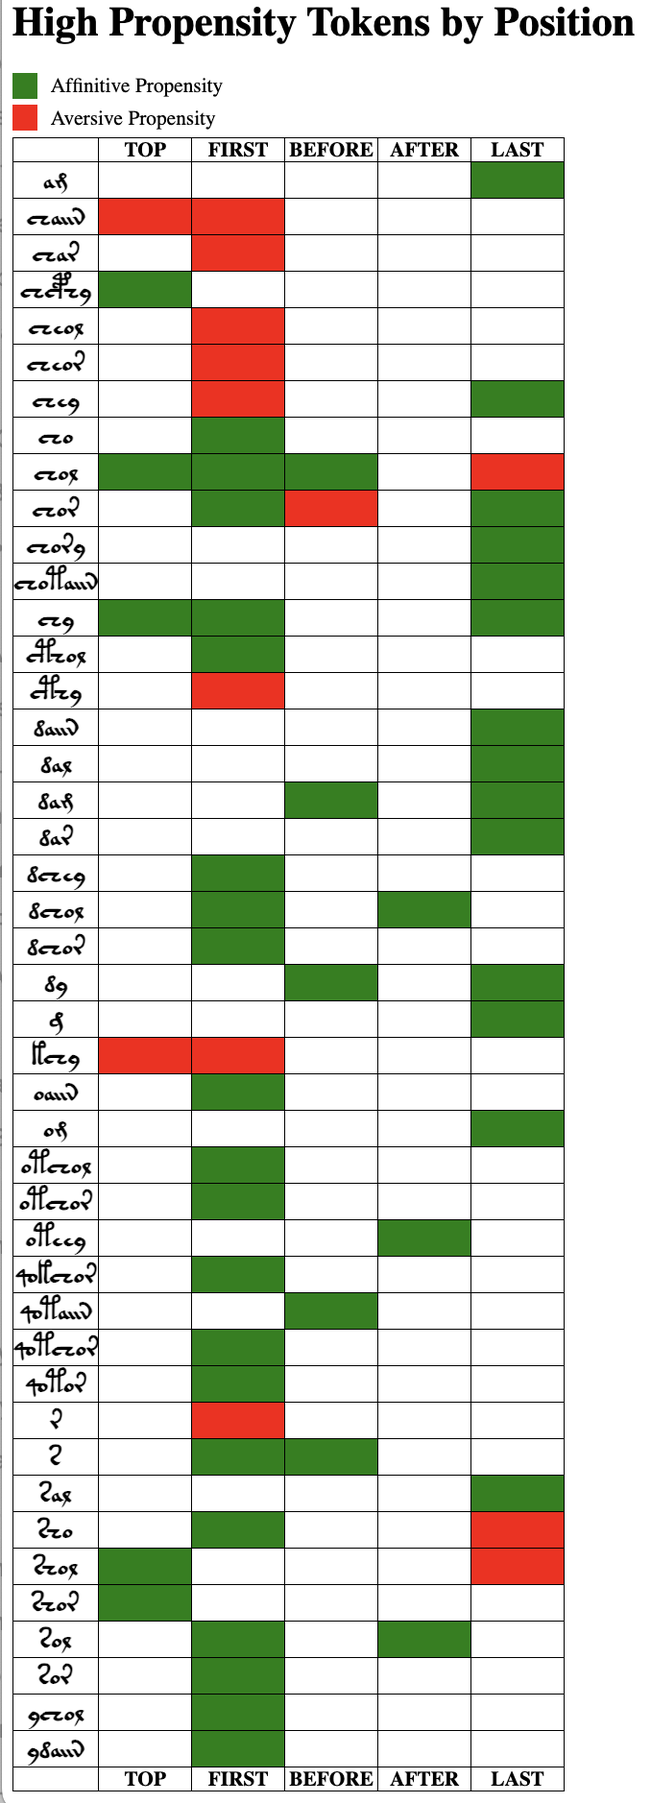
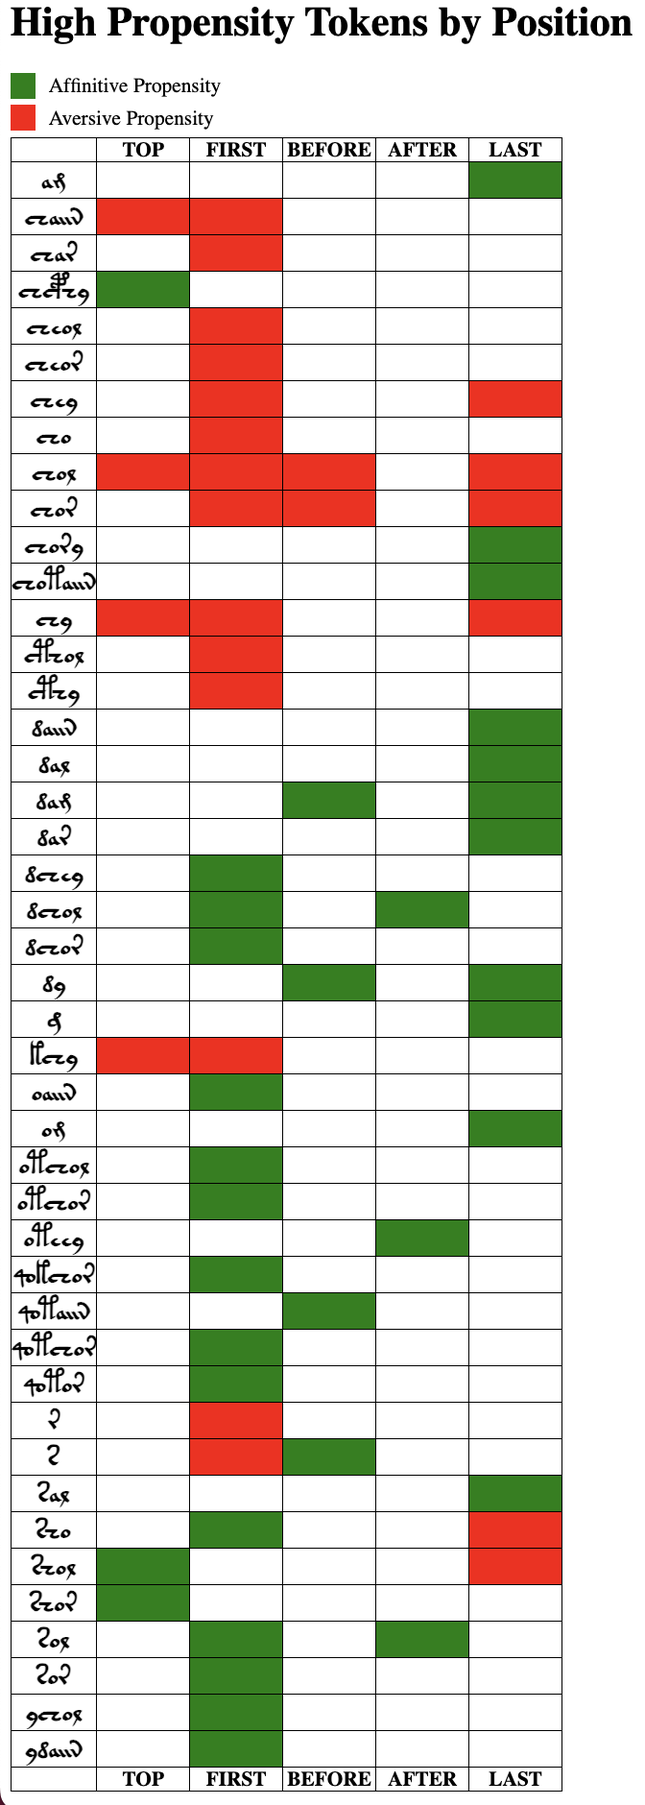
update

diff --git a/voynich_data/outputs/T_Propensity_Token.html b/voynich_data/outputs/T_Propensity_Token.html
@@ -31,6 +31,6 @@
             <div class='legend-label'>Aversive Propensity</div>
         </div>
     </div>
-   <table><tr><th></th><th>TOP</th><th>FIRST</th><th>BEFORE</th><th>AFTER</th><th>LAST</th></tr><tr><th><span style="font-family:'EVA Hand 1'; font-size:100%"  >am<br></span></th><td style="background-color:white">&nbsp;</td><td style="background-color:white">&nbsp;</td><td style="background-color:white">&nbsp;</td><td style="background-color:white">&nbsp;</td><td style="background-color:green">&nbsp;</td></tr><tr><th><span style="font-family:'EVA Hand 1'; font-size:100%"  >chaiin<br></span></th><td style="background-color:red">&nbsp;</td><td style="background-color:red">&nbsp;</td><td style="background-color:white">&nbsp;</td><td style="background-color:white">&nbsp;</td><td style="background-color:white">&nbsp;</td></tr><tr><th><span style="font-family:'EVA Hand 1'; font-size:100%"  >char<br></span></th><td style="background-color:white">&nbsp;</td><td style="background-color:red">&nbsp;</td><td style="background-color:white">&nbsp;</td><td style="background-color:white">&nbsp;</td><td style="background-color:white">&nbsp;</td></tr><tr><th><span style="font-family:'EVA Hand 1'; font-size:100%"  >chcphy<br></span></th><td style="background-color:green">&nbsp;</td><td style="background-color:white">&nbsp;</td><td style="background-color:white">&nbsp;</td><td style="background-color:white">&nbsp;</td><td style="background-color:white">&nbsp;</td></tr><tr><th><span style="font-family:'EVA Hand 1'; font-size:100%"  >cheol<br></span></th><td style="background-color:white">&nbsp;</td><td style="background-color:red">&nbsp;</td><td style="background-color:white">&nbsp;</td><td style="background-color:white">&nbsp;</td><td style="background-color:white">&nbsp;</td></tr><tr><th><span style="font-family:'EVA Hand 1'; font-size:100%"  >cheor<br></span></th><td style="background-color:white">&nbsp;</td><td style="background-color:red">&nbsp;</td><td style="background-color:white">&nbsp;</td><td style="background-color:white">&nbsp;</td><td style="background-color:white">&nbsp;</td></tr><tr><th><span style="font-family:'EVA Hand 1'; font-size:100%"  >chey<br></span></th><td style="background-color:white">&nbsp;</td><td style="background-color:red">&nbsp;</td><td style="background-color:white">&nbsp;</td><td style="background-color:white">&nbsp;</td><td style="background-color:green">&nbsp;</td></tr><tr><th><span style="font-family:'EVA Hand 1'; font-size:100%"  >cho<br></span></th><td style="background-color:white">&nbsp;</td><td style="background-color:green">&nbsp;</td><td style="background-color:white">&nbsp;</td><td style="background-color:white">&nbsp;</td><td style="background-color:white">&nbsp;</td></tr><tr><th><span style="font-family:'EVA Hand 1'; font-size:100%"  >chol<br></span></th><td style="background-color:green">&nbsp;</td><td style="background-color:green">&nbsp;</td><td style="background-color:green">&nbsp;</td><td style="background-color:white">&nbsp;</td><td style="background-color:red">&nbsp;</td></tr><tr><th><span style="font-family:'EVA Hand 1'; font-size:100%"  >chor<br></span></th><td style="background-color:white">&nbsp;</td><td style="background-color:green">&nbsp;</td><td style="background-color:red">&nbsp;</td><td style="background-color:white">&nbsp;</td><td style="background-color:green">&nbsp;</td></tr><tr><th><span style="font-family:'EVA Hand 1'; font-size:100%"  >chory<br></span></th><td style="background-color:white">&nbsp;</td><td style="background-color:white">&nbsp;</td><td style="background-color:white">&nbsp;</td><td style="background-color:white">&nbsp;</td><td style="background-color:green">&nbsp;</td></tr><tr><th><span style="font-family:'EVA Hand 1'; font-size:100%"  >chotaiin<br></span></th><td style="background-color:white">&nbsp;</td><td style="background-color:white">&nbsp;</td><td style="background-color:white">&nbsp;</td><td style="background-color:white">&nbsp;</td><td style="background-color:green">&nbsp;</td></tr><tr><th><span style="font-family:'EVA Hand 1'; font-size:100%"  >chy<br></span></th><td style="background-color:green">&nbsp;</td><td style="background-color:green">&nbsp;</td><td style="background-color:white">&nbsp;</td><td style="background-color:white">&nbsp;</td><td style="background-color:green">&nbsp;</td></tr><tr><th><span style="font-family:'EVA Hand 1'; font-size:100%"  >cthol<br></span></th><td style="background-color:white">&nbsp;</td><td style="background-color:green">&nbsp;</td><td style="background-color:white">&nbsp;</td><td style="background-color:white">&nbsp;</td><td style="background-color:white">&nbsp;</td></tr><tr><th><span style="font-family:'EVA Hand 1'; font-size:100%"  >cthy<br></span></th><td style="background-color:white">&nbsp;</td><td style="background-color:red">&nbsp;</td><td style="background-color:white">&nbsp;</td><td style="background-color:white">&nbsp;</td><td style="background-color:white">&nbsp;</td></tr><tr><th><span style="font-family:'EVA Hand 1'; font-size:100%"  >daiin<br></span></th><td style="background-color:white">&nbsp;</td><td style="background-color:white">&nbsp;</td><td style="background-color:white">&nbsp;</td><td style="background-color:white">&nbsp;</td><td style="background-color:green">&nbsp;</td></tr><tr><th><span style="font-family:'EVA Hand 1'; font-size:100%"  >dal<br></span></th><td style="background-color:white">&nbsp;</td><td style="background-color:white">&nbsp;</td><td style="background-color:white">&nbsp;</td><td style="background-color:white">&nbsp;</td><td style="background-color:green">&nbsp;</td></tr><tr><th><span style="font-family:'EVA Hand 1'; font-size:100%"  >dam<br></span></th><td style="background-color:white">&nbsp;</td><td style="background-color:white">&nbsp;</td><td style="background-color:green">&nbsp;</td><td style="background-color:white">&nbsp;</td><td style="background-color:green">&nbsp;</td></tr><tr><th><span style="font-family:'EVA Hand 1'; font-size:100%"  >dar<br></span></th><td style="background-color:white">&nbsp;</td><td style="background-color:white">&nbsp;</td><td style="background-color:white">&nbsp;</td><td style="background-color:white">&nbsp;</td><td style="background-color:green">&nbsp;</td></tr><tr><th><span style="font-family:'EVA Hand 1'; font-size:100%"  >dchey<br></span></th><td style="background-color:white">&nbsp;</td><td style="background-color:green">&nbsp;</td><td style="background-color:white">&nbsp;</td><td style="background-color:white">&nbsp;</td><td style="background-color:white">&nbsp;</td></tr><tr><th><span style="font-family:'EVA Hand 1'; font-size:100%"  >dchol<br></span></th><td style="background-color:white">&nbsp;</td><td style="background-color:green">&nbsp;</td><td style="background-color:white">&nbsp;</td><td style="background-color:green">&nbsp;</td><td style="background-color:white">&nbsp;</td></tr><tr><th><span style="font-family:'EVA Hand 1'; font-size:100%"  >dchor<br></span></th><td style="background-color:white">&nbsp;</td><td style="background-color:green">&nbsp;</td><td style="background-color:white">&nbsp;</td><td style="background-color:white">&nbsp;</td><td style="background-color:white">&nbsp;</td></tr><tr><th><span style="font-family:'EVA Hand 1'; font-size:100%"  >dy<br></span></th><td style="background-color:white">&nbsp;</td><td style="background-color:white">&nbsp;</td><td style="background-color:green">&nbsp;</td><td style="background-color:white">&nbsp;</td><td style="background-color:green">&nbsp;</td></tr><tr><th><span style="font-family:'EVA Hand 1'; font-size:100%"  >g<br></span></th><td style="background-color:white">&nbsp;</td><td style="background-color:white">&nbsp;</td><td style="background-color:white">&nbsp;</td><td style="background-color:white">&nbsp;</td><td style="background-color:green">&nbsp;</td></tr><tr><th><span style="font-family:'EVA Hand 1'; font-size:100%"  >kchy<br></span></th><td style="background-color:red">&nbsp;</td><td style="background-color:red">&nbsp;</td><td style="background-color:white">&nbsp;</td><td style="background-color:white">&nbsp;</td><td style="background-color:white">&nbsp;</td></tr><tr><th><span style="font-family:'EVA Hand 1'; font-size:100%"  >oaiin<br></span></th><td style="background-color:white">&nbsp;</td><td style="background-color:green">&nbsp;</td><td style="background-color:white">&nbsp;</td><td style="background-color:white">&nbsp;</td><td style="background-color:white">&nbsp;</td></tr><tr><th><span style="font-family:'EVA Hand 1'; font-size:100%"  >om<br></span></th><td style="background-color:white">&nbsp;</td><td style="background-color:white">&nbsp;</td><td style="background-color:white">&nbsp;</td><td style="background-color:white">&nbsp;</td><td style="background-color:green">&nbsp;</td></tr><tr><th><span style="font-family:'EVA Hand 1'; font-size:100%"  >otchol<br></span></th><td style="background-color:white">&nbsp;</td><td style="background-color:green">&nbsp;</td><td style="background-color:white">&nbsp;</td><td style="background-color:white">&nbsp;</td><td style="background-color:white">&nbsp;</td></tr><tr><th><span style="font-family:'EVA Hand 1'; font-size:100%"  >otchor<br></span></th><td style="background-color:white">&nbsp;</td><td style="background-color:green">&nbsp;</td><td style="background-color:white">&nbsp;</td><td style="background-color:white">&nbsp;</td><td style="background-color:white">&nbsp;</td></tr><tr><th><span style="font-family:'EVA Hand 1'; font-size:100%"  >oteey<br></span></th><td style="background-color:white">&nbsp;</td><td style="background-color:white">&nbsp;</td><td style="background-color:white">&nbsp;</td><td style="background-color:green">&nbsp;</td><td style="background-color:white">&nbsp;</td></tr><tr><th><span style="font-family:'EVA Hand 1'; font-size:100%"  >qokchor<br></span></th><td style="background-color:white">&nbsp;</td><td style="background-color:green">&nbsp;</td><td style="background-color:white">&nbsp;</td><td style="background-color:white">&nbsp;</td><td style="background-color:white">&nbsp;</td></tr><tr><th><span style="font-family:'EVA Hand 1'; font-size:100%"  >qotaiin<br></span></th><td style="background-color:white">&nbsp;</td><td style="background-color:white">&nbsp;</td><td style="background-color:green">&nbsp;</td><td style="background-color:white">&nbsp;</td><td style="background-color:white">&nbsp;</td></tr><tr><th><span style="font-family:'EVA Hand 1'; font-size:100%"  >qotchor<br></span></th><td style="background-color:white">&nbsp;</td><td style="background-color:green">&nbsp;</td><td style="background-color:white">&nbsp;</td><td style="background-color:white">&nbsp;</td><td style="background-color:white">&nbsp;</td></tr><tr><th><span style="font-family:'EVA Hand 1'; font-size:100%"  >qotor<br></span></th><td style="background-color:white">&nbsp;</td><td style="background-color:green">&nbsp;</td><td style="background-color:white">&nbsp;</td><td style="background-color:white">&nbsp;</td><td style="background-color:white">&nbsp;</td></tr><tr><th><span style="font-family:'EVA Hand 1'; font-size:100%"  >r<br></span></th><td style="background-color:white">&nbsp;</td><td style="background-color:red">&nbsp;</td><td style="background-color:white">&nbsp;</td><td style="background-color:white">&nbsp;</td><td style="background-color:white">&nbsp;</td></tr><tr><th><span style="font-family:'EVA Hand 1'; font-size:100%"  >s<br></span></th><td style="background-color:white">&nbsp;</td><td style="background-color:green">&nbsp;</td><td style="background-color:green">&nbsp;</td><td style="background-color:white">&nbsp;</td><td style="background-color:white">&nbsp;</td></tr><tr><th><span style="font-family:'EVA Hand 1'; font-size:100%"  >sal<br></span></th><td style="background-color:white">&nbsp;</td><td style="background-color:white">&nbsp;</td><td style="background-color:white">&nbsp;</td><td style="background-color:white">&nbsp;</td><td style="background-color:green">&nbsp;</td></tr><tr><th><span style="font-family:'EVA Hand 1'; font-size:100%"  >sho<br></span></th><td style="background-color:white">&nbsp;</td><td style="background-color:green">&nbsp;</td><td style="background-color:white">&nbsp;</td><td style="background-color:white">&nbsp;</td><td style="background-color:red">&nbsp;</td></tr><tr><th><span style="font-family:'EVA Hand 1'; font-size:100%"  >shol<br></span></th><td style="background-color:green">&nbsp;</td><td style="background-color:white">&nbsp;</td><td style="background-color:white">&nbsp;</td><td style="background-color:white">&nbsp;</td><td style="background-color:red">&nbsp;</td></tr><tr><th><span style="font-family:'EVA Hand 1'; font-size:100%"  >shor<br></span></th><td style="background-color:green">&nbsp;</td><td style="background-color:white">&nbsp;</td><td style="background-color:white">&nbsp;</td><td style="background-color:white">&nbsp;</td><td style="background-color:white">&nbsp;</td></tr><tr><th><span style="font-family:'EVA Hand 1'; font-size:100%"  >sol<br></span></th><td style="background-color:white">&nbsp;</td><td style="background-color:green">&nbsp;</td><td style="background-color:white">&nbsp;</td><td style="background-color:green">&nbsp;</td><td style="background-color:white">&nbsp;</td></tr><tr><th><span style="font-family:'EVA Hand 1'; font-size:100%"  >sor<br></span></th><td style="background-color:white">&nbsp;</td><td style="background-color:green">&nbsp;</td><td style="background-color:white">&nbsp;</td><td style="background-color:white">&nbsp;</td><td style="background-color:white">&nbsp;</td></tr><tr><th><span style="font-family:'EVA Hand 1'; font-size:100%"  >ychol<br></span></th><td style="background-color:white">&nbsp;</td><td style="background-color:green">&nbsp;</td><td style="background-color:white">&nbsp;</td><td style="background-color:white">&nbsp;</td><td style="background-color:white">&nbsp;</td></tr><tr><th><span style="font-family:'EVA Hand 1'; font-size:100%"  >ydaiin<br></span></th><td style="background-color:white">&nbsp;</td><td style="background-color:green">&nbsp;</td><td style="background-color:white">&nbsp;</td><td style="background-color:white">&nbsp;</td><td style="background-color:white">&nbsp;</td></tr><tr><th></th><th>TOP</th><th>FIRST</th><th>BEFORE</th><th>AFTER</th><th>LAST</th></tr></table>
+   <table><tr><th></th><th>TOP</th><th>FIRST</th><th>BEFORE</th><th>AFTER</th><th>LAST</th></tr><tr><th><span style="font-family:'EVA Hand 1'; font-size:100%"  >am<br></span></th><td style="background-color:white">&nbsp;</td><td style="background-color:white">&nbsp;</td><td style="background-color:white">&nbsp;</td><td style="background-color:white">&nbsp;</td><td style="background-color:green">&nbsp;</td></tr><tr><th><span style="font-family:'EVA Hand 1'; font-size:100%"  >chaiin<br></span></th><td style="background-color:red">&nbsp;</td><td style="background-color:red">&nbsp;</td><td style="background-color:white">&nbsp;</td><td style="background-color:white">&nbsp;</td><td style="background-color:white">&nbsp;</td></tr><tr><th><span style="font-family:'EVA Hand 1'; font-size:100%"  >char<br></span></th><td style="background-color:white">&nbsp;</td><td style="background-color:red">&nbsp;</td><td style="background-color:white">&nbsp;</td><td style="background-color:white">&nbsp;</td><td style="background-color:white">&nbsp;</td></tr><tr><th><span style="font-family:'EVA Hand 1'; font-size:100%"  >chcphy<br></span></th><td style="background-color:green">&nbsp;</td><td style="background-color:white">&nbsp;</td><td style="background-color:white">&nbsp;</td><td style="background-color:white">&nbsp;</td><td style="background-color:white">&nbsp;</td></tr><tr><th><span style="font-family:'EVA Hand 1'; font-size:100%"  >cheol<br></span></th><td style="background-color:white">&nbsp;</td><td style="background-color:red">&nbsp;</td><td style="background-color:white">&nbsp;</td><td style="background-color:white">&nbsp;</td><td style="background-color:white">&nbsp;</td></tr><tr><th><span style="font-family:'EVA Hand 1'; font-size:100%"  >cheor<br></span></th><td style="background-color:white">&nbsp;</td><td style="background-color:red">&nbsp;</td><td style="background-color:white">&nbsp;</td><td style="background-color:white">&nbsp;</td><td style="background-color:white">&nbsp;</td></tr><tr><th><span style="font-family:'EVA Hand 1'; font-size:100%"  >chey<br></span></th><td style="background-color:white">&nbsp;</td><td style="background-color:red">&nbsp;</td><td style="background-color:white">&nbsp;</td><td style="background-color:white">&nbsp;</td><td style="background-color:red">&nbsp;</td></tr><tr><th><span style="font-family:'EVA Hand 1'; font-size:100%"  >cho<br></span></th><td style="background-color:white">&nbsp;</td><td style="background-color:red">&nbsp;</td><td style="background-color:white">&nbsp;</td><td style="background-color:white">&nbsp;</td><td style="background-color:white">&nbsp;</td></tr><tr><th><span style="font-family:'EVA Hand 1'; font-size:100%"  >chol<br></span></th><td style="background-color:red">&nbsp;</td><td style="background-color:red">&nbsp;</td><td style="background-color:red">&nbsp;</td><td style="background-color:white">&nbsp;</td><td style="background-color:red">&nbsp;</td></tr><tr><th><span style="font-family:'EVA Hand 1'; font-size:100%"  >chor<br></span></th><td style="background-color:white">&nbsp;</td><td style="background-color:red">&nbsp;</td><td style="background-color:red">&nbsp;</td><td style="background-color:white">&nbsp;</td><td style="background-color:red">&nbsp;</td></tr><tr><th><span style="font-family:'EVA Hand 1'; font-size:100%"  >chory<br></span></th><td style="background-color:white">&nbsp;</td><td style="background-color:white">&nbsp;</td><td style="background-color:white">&nbsp;</td><td style="background-color:white">&nbsp;</td><td style="background-color:green">&nbsp;</td></tr><tr><th><span style="font-family:'EVA Hand 1'; font-size:100%"  >chotaiin<br></span></th><td style="background-color:white">&nbsp;</td><td style="background-color:white">&nbsp;</td><td style="background-color:white">&nbsp;</td><td style="background-color:white">&nbsp;</td><td style="background-color:green">&nbsp;</td></tr><tr><th><span style="font-family:'EVA Hand 1'; font-size:100%"  >chy<br></span></th><td style="background-color:red">&nbsp;</td><td style="background-color:red">&nbsp;</td><td style="background-color:white">&nbsp;</td><td style="background-color:white">&nbsp;</td><td style="background-color:red">&nbsp;</td></tr><tr><th><span style="font-family:'EVA Hand 1'; font-size:100%"  >cthol<br></span></th><td style="background-color:white">&nbsp;</td><td style="background-color:red">&nbsp;</td><td style="background-color:white">&nbsp;</td><td style="background-color:white">&nbsp;</td><td style="background-color:white">&nbsp;</td></tr><tr><th><span style="font-family:'EVA Hand 1'; font-size:100%"  >cthy<br></span></th><td style="background-color:white">&nbsp;</td><td style="background-color:red">&nbsp;</td><td style="background-color:white">&nbsp;</td><td style="background-color:white">&nbsp;</td><td style="background-color:white">&nbsp;</td></tr><tr><th><span style="font-family:'EVA Hand 1'; font-size:100%"  >daiin<br></span></th><td style="background-color:white">&nbsp;</td><td style="background-color:white">&nbsp;</td><td style="background-color:white">&nbsp;</td><td style="background-color:white">&nbsp;</td><td style="background-color:green">&nbsp;</td></tr><tr><th><span style="font-family:'EVA Hand 1'; font-size:100%"  >dal<br></span></th><td style="background-color:white">&nbsp;</td><td style="background-color:white">&nbsp;</td><td style="background-color:white">&nbsp;</td><td style="background-color:white">&nbsp;</td><td style="background-color:green">&nbsp;</td></tr><tr><th><span style="font-family:'EVA Hand 1'; font-size:100%"  >dam<br></span></th><td style="background-color:white">&nbsp;</td><td style="background-color:white">&nbsp;</td><td style="background-color:green">&nbsp;</td><td style="background-color:white">&nbsp;</td><td style="background-color:green">&nbsp;</td></tr><tr><th><span style="font-family:'EVA Hand 1'; font-size:100%"  >dar<br></span></th><td style="background-color:white">&nbsp;</td><td style="background-color:white">&nbsp;</td><td style="background-color:white">&nbsp;</td><td style="background-color:white">&nbsp;</td><td style="background-color:green">&nbsp;</td></tr><tr><th><span style="font-family:'EVA Hand 1'; font-size:100%"  >dchey<br></span></th><td style="background-color:white">&nbsp;</td><td style="background-color:green">&nbsp;</td><td style="background-color:white">&nbsp;</td><td style="background-color:white">&nbsp;</td><td style="background-color:white">&nbsp;</td></tr><tr><th><span style="font-family:'EVA Hand 1'; font-size:100%"  >dchol<br></span></th><td style="background-color:white">&nbsp;</td><td style="background-color:green">&nbsp;</td><td style="background-color:white">&nbsp;</td><td style="background-color:green">&nbsp;</td><td style="background-color:white">&nbsp;</td></tr><tr><th><span style="font-family:'EVA Hand 1'; font-size:100%"  >dchor<br></span></th><td style="background-color:white">&nbsp;</td><td style="background-color:green">&nbsp;</td><td style="background-color:white">&nbsp;</td><td style="background-color:white">&nbsp;</td><td style="background-color:white">&nbsp;</td></tr><tr><th><span style="font-family:'EVA Hand 1'; font-size:100%"  >dy<br></span></th><td style="background-color:white">&nbsp;</td><td style="background-color:white">&nbsp;</td><td style="background-color:green">&nbsp;</td><td style="background-color:white">&nbsp;</td><td style="background-color:green">&nbsp;</td></tr><tr><th><span style="font-family:'EVA Hand 1'; font-size:100%"  >g<br></span></th><td style="background-color:white">&nbsp;</td><td style="background-color:white">&nbsp;</td><td style="background-color:white">&nbsp;</td><td style="background-color:white">&nbsp;</td><td style="background-color:green">&nbsp;</td></tr><tr><th><span style="font-family:'EVA Hand 1'; font-size:100%"  >kchy<br></span></th><td style="background-color:red">&nbsp;</td><td style="background-color:red">&nbsp;</td><td style="background-color:white">&nbsp;</td><td style="background-color:white">&nbsp;</td><td style="background-color:white">&nbsp;</td></tr><tr><th><span style="font-family:'EVA Hand 1'; font-size:100%"  >oaiin<br></span></th><td style="background-color:white">&nbsp;</td><td style="background-color:green">&nbsp;</td><td style="background-color:white">&nbsp;</td><td style="background-color:white">&nbsp;</td><td style="background-color:white">&nbsp;</td></tr><tr><th><span style="font-family:'EVA Hand 1'; font-size:100%"  >om<br></span></th><td style="background-color:white">&nbsp;</td><td style="background-color:white">&nbsp;</td><td style="background-color:white">&nbsp;</td><td style="background-color:white">&nbsp;</td><td style="background-color:green">&nbsp;</td></tr><tr><th><span style="font-family:'EVA Hand 1'; font-size:100%"  >otchol<br></span></th><td style="background-color:white">&nbsp;</td><td style="background-color:green">&nbsp;</td><td style="background-color:white">&nbsp;</td><td style="background-color:white">&nbsp;</td><td style="background-color:white">&nbsp;</td></tr><tr><th><span style="font-family:'EVA Hand 1'; font-size:100%"  >otchor<br></span></th><td style="background-color:white">&nbsp;</td><td style="background-color:green">&nbsp;</td><td style="background-color:white">&nbsp;</td><td style="background-color:white">&nbsp;</td><td style="background-color:white">&nbsp;</td></tr><tr><th><span style="font-family:'EVA Hand 1'; font-size:100%"  >oteey<br></span></th><td style="background-color:white">&nbsp;</td><td style="background-color:white">&nbsp;</td><td style="background-color:white">&nbsp;</td><td style="background-color:green">&nbsp;</td><td style="background-color:white">&nbsp;</td></tr><tr><th><span style="font-family:'EVA Hand 1'; font-size:100%"  >qokchor<br></span></th><td style="background-color:white">&nbsp;</td><td style="background-color:green">&nbsp;</td><td style="background-color:white">&nbsp;</td><td style="background-color:white">&nbsp;</td><td style="background-color:white">&nbsp;</td></tr><tr><th><span style="font-family:'EVA Hand 1'; font-size:100%"  >qotaiin<br></span></th><td style="background-color:white">&nbsp;</td><td style="background-color:white">&nbsp;</td><td style="background-color:green">&nbsp;</td><td style="background-color:white">&nbsp;</td><td style="background-color:white">&nbsp;</td></tr><tr><th><span style="font-family:'EVA Hand 1'; font-size:100%"  >qotchor<br></span></th><td style="background-color:white">&nbsp;</td><td style="background-color:green">&nbsp;</td><td style="background-color:white">&nbsp;</td><td style="background-color:white">&nbsp;</td><td style="background-color:white">&nbsp;</td></tr><tr><th><span style="font-family:'EVA Hand 1'; font-size:100%"  >qotor<br></span></th><td style="background-color:white">&nbsp;</td><td style="background-color:green">&nbsp;</td><td style="background-color:white">&nbsp;</td><td style="background-color:white">&nbsp;</td><td style="background-color:white">&nbsp;</td></tr><tr><th><span style="font-family:'EVA Hand 1'; font-size:100%"  >r<br></span></th><td style="background-color:white">&nbsp;</td><td style="background-color:red">&nbsp;</td><td style="background-color:white">&nbsp;</td><td style="background-color:white">&nbsp;</td><td style="background-color:white">&nbsp;</td></tr><tr><th><span style="font-family:'EVA Hand 1'; font-size:100%"  >s<br></span></th><td style="background-color:white">&nbsp;</td><td style="background-color:red">&nbsp;</td><td style="background-color:green">&nbsp;</td><td style="background-color:white">&nbsp;</td><td style="background-color:white">&nbsp;</td></tr><tr><th><span style="font-family:'EVA Hand 1'; font-size:100%"  >sal<br></span></th><td style="background-color:white">&nbsp;</td><td style="background-color:white">&nbsp;</td><td style="background-color:white">&nbsp;</td><td style="background-color:white">&nbsp;</td><td style="background-color:green">&nbsp;</td></tr><tr><th><span style="font-family:'EVA Hand 1'; font-size:100%"  >sho<br></span></th><td style="background-color:white">&nbsp;</td><td style="background-color:green">&nbsp;</td><td style="background-color:white">&nbsp;</td><td style="background-color:white">&nbsp;</td><td style="background-color:red">&nbsp;</td></tr><tr><th><span style="font-family:'EVA Hand 1'; font-size:100%"  >shol<br></span></th><td style="background-color:green">&nbsp;</td><td style="background-color:white">&nbsp;</td><td style="background-color:white">&nbsp;</td><td style="background-color:white">&nbsp;</td><td style="background-color:red">&nbsp;</td></tr><tr><th><span style="font-family:'EVA Hand 1'; font-size:100%"  >shor<br></span></th><td style="background-color:green">&nbsp;</td><td style="background-color:white">&nbsp;</td><td style="background-color:white">&nbsp;</td><td style="background-color:white">&nbsp;</td><td style="background-color:white">&nbsp;</td></tr><tr><th><span style="font-family:'EVA Hand 1'; font-size:100%"  >sol<br></span></th><td style="background-color:white">&nbsp;</td><td style="background-color:green">&nbsp;</td><td style="background-color:white">&nbsp;</td><td style="background-color:green">&nbsp;</td><td style="background-color:white">&nbsp;</td></tr><tr><th><span style="font-family:'EVA Hand 1'; font-size:100%"  >sor<br></span></th><td style="background-color:white">&nbsp;</td><td style="background-color:green">&nbsp;</td><td style="background-color:white">&nbsp;</td><td style="background-color:white">&nbsp;</td><td style="background-color:white">&nbsp;</td></tr><tr><th><span style="font-family:'EVA Hand 1'; font-size:100%"  >ychol<br></span></th><td style="background-color:white">&nbsp;</td><td style="background-color:green">&nbsp;</td><td style="background-color:white">&nbsp;</td><td style="background-color:white">&nbsp;</td><td style="background-color:white">&nbsp;</td></tr><tr><th><span style="font-family:'EVA Hand 1'; font-size:100%"  >ydaiin<br></span></th><td style="background-color:white">&nbsp;</td><td style="background-color:green">&nbsp;</td><td style="background-color:white">&nbsp;</td><td style="background-color:white">&nbsp;</td><td style="background-color:white">&nbsp;</td></tr><tr><th></th><th>TOP</th><th>FIRST</th><th>BEFORE</th><th>AFTER</th><th>LAST</th></tr></table>
 </body>
 </html>
